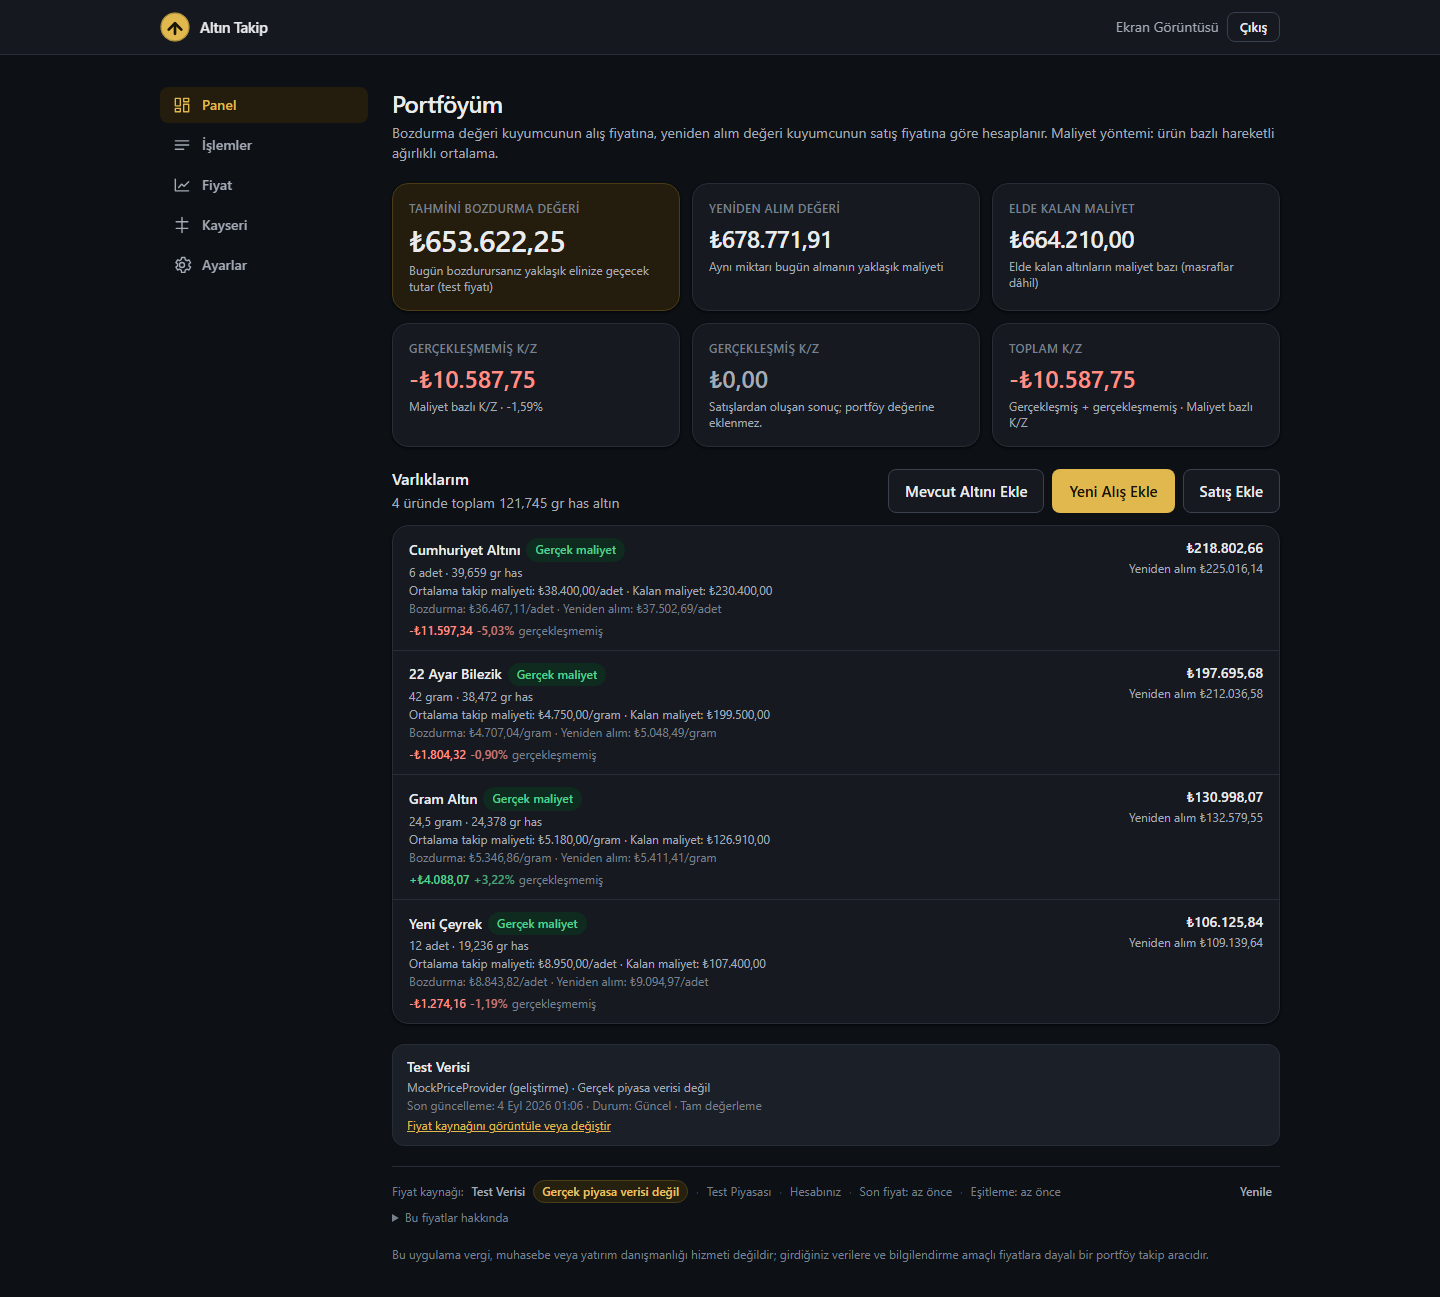
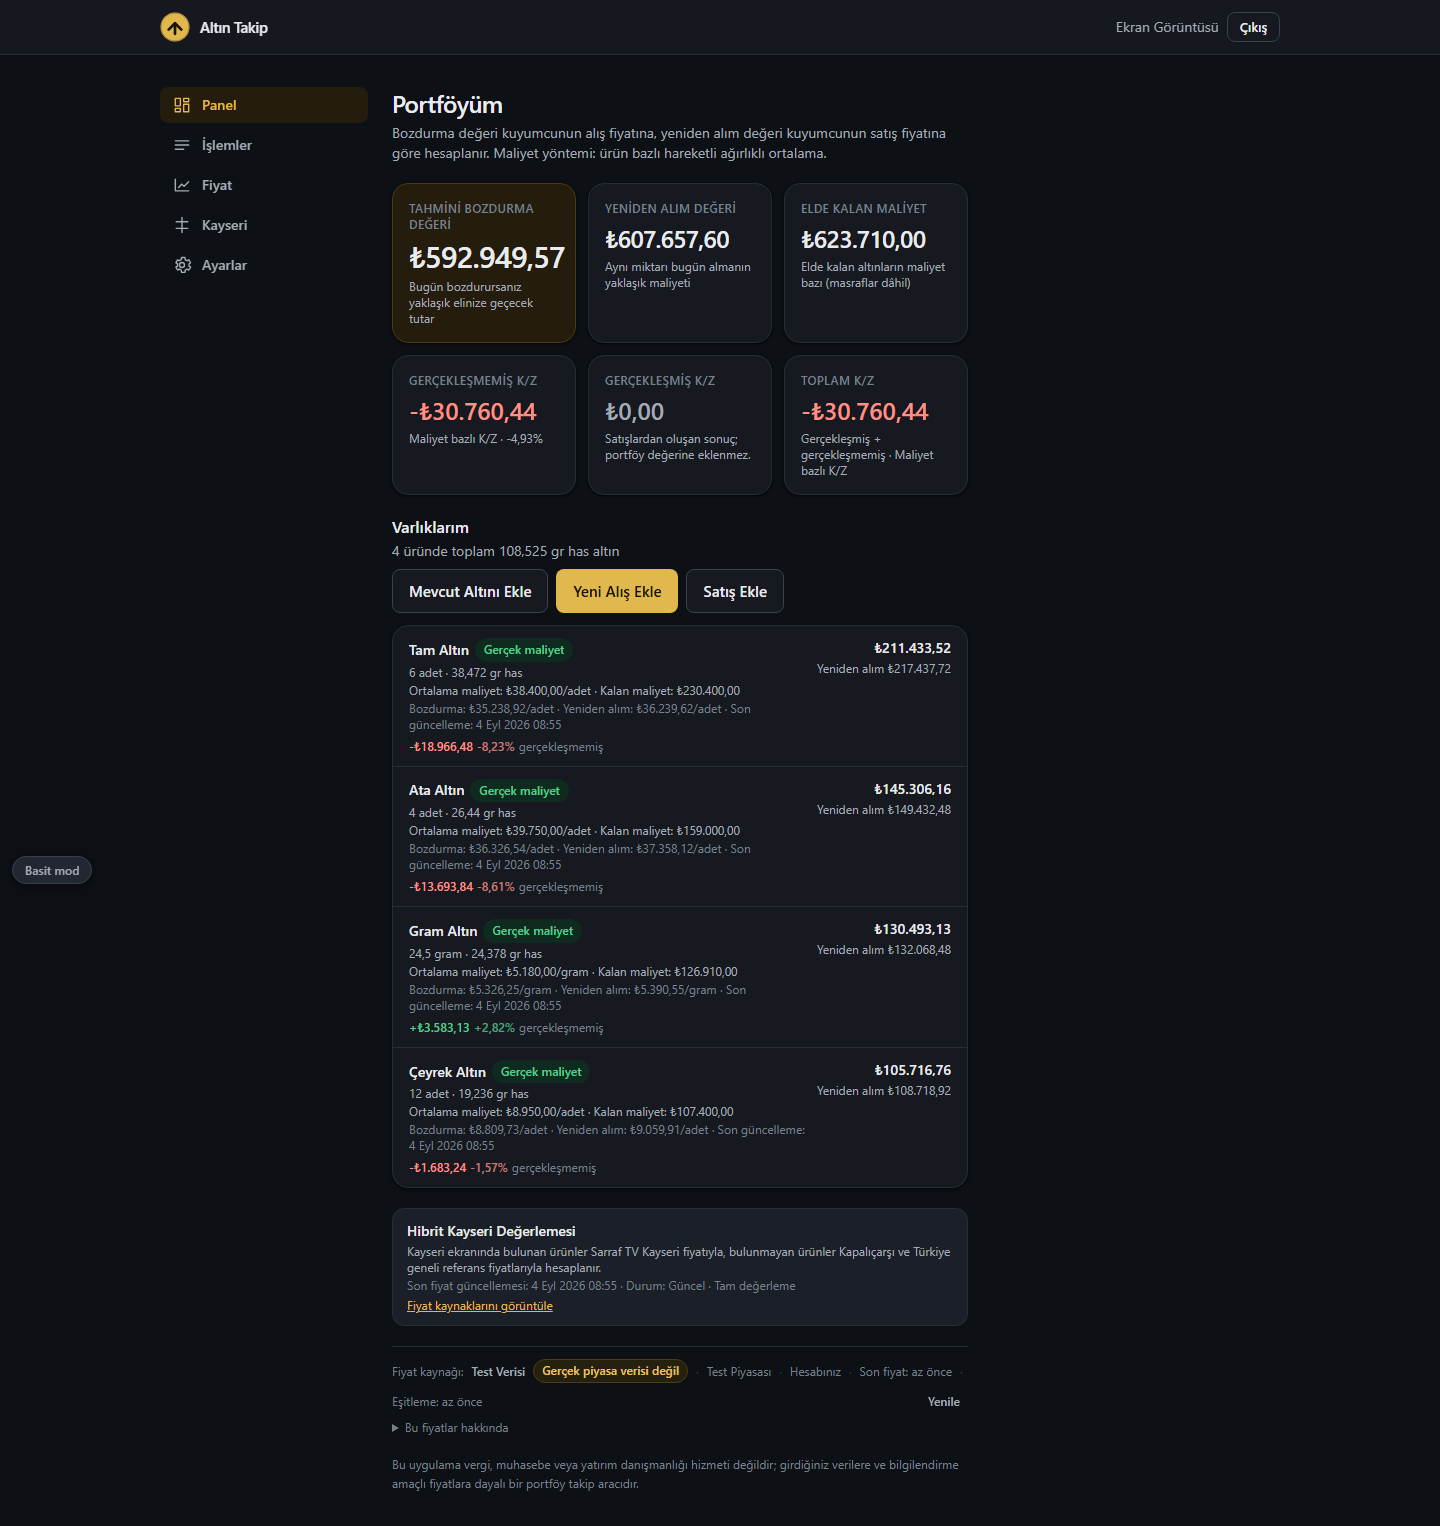
Belgeler olculen duruma cekildi; eskimis komut ve tablolar duzeltildi
ROADMAP 4256043'ten beri guncellenmemisti; arada 22 commit vardi. README ise
var olmayan bir komut adi tarif ediyordu.

- ROADMAP: hibrit Kayseri degerlemesi, ikinci/ucuncu kaynak, basit mod, sifreli
  yedek, bulut toplayici, izolasyon sondasi ve uretim dagitimi eklendi.
  "Kalan" listesinden yapilmis olan CEYREK/YARIM/TAM onayi cikarildi;
  dayaniklilik maddesi kendi olcumuyle celisiyordu, duzeltildi.
- PRICE_SOURCE_STATUS: hibrit tabloda Has Altin, 14 Ayar, Resat ve Besli
  eksikti. Bolum 2 hala "tek urun degerleniyor: Gremse" diyordu; 2026-09-03
  kosumunun kaydi BOZULMADAN, kosumdan sonra ne degistigi not olarak eklendi.
  Onayin dagitim basina yenilenmesi gerektigi acikca yazildi (surum 4 eski
  onaylari gecersiz kiliyor).
- README: "yalnizca Test Verisi calisir" artik dogru degildi. Komut tablosunda
  price:sarraf-feasibility yaziyordu, gercekte :headed/:headless/:strict var.
  test:db "0001->0016" diyordu, 21 migration var. Eksik komutlar eklendi;
  collect-once komutlari ayrildi (truncgil/anlik YAZMAZ, sarraf makine ucuna
  GONDERIR).
- sarraf-tv-screen-mapping: GROUPED_EXPLICIT aciklamasi "bu ekranda boyle bir
  alan bulunmadi" diyordu, oysa ayni dosyada ATA satirlari oyle eslenmis.
- docs/screenshots/desktop.png: E2E kosumunda yeniden uretildi.

Dogrulama: npm run verify temiz (696 test / 37 dosya, build, paket taramasi).
Playwright 305 gecti, 3 atlandi, 1 dustu; dusen test ERR_NO_BUFFER_SPACE ile
chunk indiremedigi icin kaldi, tek basina yeniden kosuldugunda gecti.

diff --git a/src/prices/providers/sarraf-tv-screen-mapping.ts b/src/prices/providers/sarraf-tv-screen-mapping.ts
@@ -31,7 +31,9 @@ export const SARRAF_TV_SCREEN_MAPPING_VERSION = "sarraf-tv-screen-observed-4";
  *                    yüklediği yanıtta AYRI ALAN ADLARIYLA (buying/sales)
  *                    kanıtlanmış. Değerlemeye girebilir.
  *  GROUPED_EXPLICIT  Kaynak, aynı fiyatın birden çok ürünü kapsadığını AÇIKÇA
- *                    söylüyor. (Bu ekranda böyle bir alan bulunmadı.)
+ *                    söylüyor. Bu ekranda ayrı bir alanla değil, başlığın
+ *                    kendisiyle beyan edilir ("ATA - REŞAT LİRA"); tablo
+ *                    aşağıda: SARRAF_TV_SCREEN_MAPPING_GROUPED.
  *  OPERATOR_VERIFIED Yönetici, ekran kanıtını görüp eşlemeyi açıkça onayladı.
  *  CONVENTION        Başlık yeni/eski ayrımını yazmıyor ("ÇEYREK"). Piyasa
  *                    teamülüdür, kanıt değildir. Onaysız değerlemeye GİRMEZ.

diff --git a/README.md b/README.md
@@ -126,7 +126,7 @@ değişkenlerin eksik olduğunu raporlar.
 | `npm run typecheck` | TypeScript tip denetimi |
 | `npm run test` | Birim ve güvenlik yüzeyi testleri (Vitest) |
 | `npm run test:e2e` | Tarayıcı duman ve güvenlik testleri (Playwright, 390/768/1440 px) |
-| `npm run test:db` | Veritabanı yetki sınırı, RLS ve muhasebe testleri: temiz DB'ye 0001→0016 uygular, 242 pgTAP testi koşar (Supabase CLI + Docker) |
+| `npm run test:db` | Veritabanı yetki sınırı, RLS ve muhasebe testleri: temiz DB'ye 0001→0021 uygular, pgTAP testlerini koşar (Supabase CLI + Docker) |
 | `npm run test:data-api` | Gerçek anon / authenticated JWT ile PostgREST üzerinden yazma yüzeyinin kapalı olduğunu doğrular (yerel Supabase) |
 | `npm run verify` | lint + typecheck + test + build + istemci paketi taraması |
 | `npm run package:source` | Temiz kaynak paketi (`dist/Altin-Takip-Source.zip` + SHA-256 + manifest) |
@@ -134,7 +134,13 @@ değişkenlerin eksik olduğunu raporlar.
 | `npm run admin:repair` | Eksik varsayılan portföy/tercih kayıtlarını idempotent biçimde tamamlar (yönetici onarımı) |
 | `npm run accounting:verify` | Defteri yeniden oynatır; türetilmiş pozisyonlar ve Postgres içi doğrulamayla karşılaştırır; tutarsızlıkta başarısız olur |
 | `npm run price:contract` | Sağlayıcı sözleşmesi testleri (fixture). Credential varsa canlı sağlık kontrolü ekler; yoksa eksik DEĞİŞKEN ADLARINI listeleyip NOT_RUN raporlar |
-| `npm run price:sarraf-feasibility` | Sarraf TV Kayseri ekranının normal tarayıcı oturumunda okunup okunamadığını ölçen DENEYSEL fizibilite aracı. Üretim yolunun parçası değildir; CAPTCHA aşmaz, sonucu OK/BLOCKED/UNAVAILABLE/NOT_RUN olarak dürüstçe raporlar |
+| `npm run price:sarraf-feasibility:headed` / `:headless` / `:strict` | Sarraf TV Kayseri ekranının normal tarayıcı oturumunda okunup okunamadığını ölçen DENEYSEL fizibilite aracı. Üretim yolunun parçası değildir; CAPTCHA aşmaz, sonucu OK/PARTIAL_OK/BLOCKED/UNAVAILABLE/NOT_RUN olarak dürüstçe raporlar |
+| `npm run price:truncgil:collect-once` / `price:anlik:collect-once` | Adapter'ı gerçek kaynağa karşı çalıştırır ve çıkan fiyatları yazdırır. **Veritabanına yazmaz**; sözleşme/alan adı/sayı biçimi denetimi içindir |
+| `npm run price:sarraf:collect-once` | Bulut toplayıcının tek seferlik koşumu: ekranı bir kez okur ve imzalı gözlemi HMAC'li makine ucuna **gönderir**. Supabase anahtarı taşımaz |
+| `npm run price:ingest:trigger` | Merkezî fiyat alımını elle tetikler (cron ucu) |
+| `npm run price:match-verify` | Canlı birebir eşleşme denetimi: ekran → toplayıcı → veritabanı → panel zincirinin dördü de aynı değeri gösteriyor mu? Geçici test kullanıcısı açar ve siler |
+| `npm run mappings:approve` | Kayseri ekran eşlemelerini yönetici onayıyla açar (`OPERATOR_VERIFIED`). Ekran gözlemi yoksa hiçbir şey onaylamaz; eşleme sürümü değişince yeniden koşulmalıdır |
+| `npm run probe:remote-isolation` | Canlı Vercel + uzak Supabase üzerinde çapraz kullanıcı erişiminin engellendiğini gerçek HTTPS oturumuyla doğrular; geçici kullanıcı açar ve siler |
 | `npm run price:smoke` | Yalnızca yerel Supabase: katalog eşitleme → alım → karantina → kaynak seçimi yolunu uçtan uca doğrular |
 | `npm run accounting:smoke` | Yalnızca yerel Supabase: gerçek RPC yolundan kabul örneklerini (1, 4, 8, 9, VOID/REPLACE, MARKET_BASELINE) koşar |
 | `npm run staging:doctor` / `staging:migrate` / `staging:smoke` / `staging:seed` / `staging:admin` / `staging:cleanup` / `test:staging` | Staging araçları — bkz. [docs/STAGING.md](docs/STAGING.md). Değerler yazdırılmaz; eksik yapılandırmada fail closed |
@@ -164,15 +170,22 @@ kullanıcı adını içeren parolalar reddedilir.
 
 ## Fiyat verisi
 
-Uygulama **çoklu fiyat kaynağını** destekler. Bu sürümde hiçbir gerçek sağlayıcı lisansı
-yoktur: yalnızca **Test Verisi** çalışır ve arayüzde "Gerçek piyasa verisi değil" etiketiyle
-görünür. Gerçek kaynaklar katalogda tanımlıdır ama `NOT_CONFIGURED` / `LICENSE_REQUIRED`
-durumundadır ve veri çekmez.
+Uygulama **çoklu fiyat kaynağını** destekler. Lisanslı ticari sağlayıcı sözleşmesi yoktur;
+`LICENSE_REQUIRED` kaynaklar veri çekmez ve veritabanı kısıtıyla kapalı durur. Özel pilotta
+üç kaynak `EXPERIMENTAL_PRIVATE` olarak çalışır ve **ürün başına sabit bir planla** kullanılır
+(hibrit Kayseri değerlemesi; hangi ürünün hangi kaynaktan geldiği
+[docs/PRICE_SOURCE_STATUS.md](docs/PRICE_SOURCE_STATUS.md) içindedir).
+
+**Test Verisi** yalnızca geliştirmede açılır ve arayüzde "Gerçek piyasa verisi değil"
+etiketiyle görünür. Pilot kaynakları bu etiketi taşımaz: verileri gerçektir, yalnızca
+lisanslı değildir — lisanssız olmakla uydurma olmak aynı şey değildir.
 
 | Kaynak | Piyasa | Durum |
 | --- | --- | --- |
 | Test Verisi (MARKET_BASELINE) | Test | Yalnızca geliştirme; üretimde kapalı |
 | Sarraf TV Kayseri (ekran gözlemi) | Kayseri | **Özel pilot** — `EXPERIMENTAL_PRIVATE`, lisanssız, izin listesiyle, sınırlı ürün |
+| Kapalıçarşı Önerilen (Anlık Altın) | Kapalıçarşı | **Özel pilot** — `EXPERIMENTAL_PRIVATE`, düz `fetch`; Kayseri ekranında iki yönlü satırı olmayan gram ürünleri |
+| Türkiye geneli (Trunçgil) | Genel Türkiye | **Özel pilot** — `EXPERIMENTAL_PRIVATE`, ücretsiz açık akış; yalnızca diğer iki kaynakta hiç bulunmayan ürünler |
 | Kayseri Yerel Piyasa (Sarraf Pro — KAYSARDER ekranı) | Kayseri | Yetkili API/XML sözleşmesi bekleniyor |
 | AltinAPI — bağımsız veri sağlayıcısı | Genel Türkiye | Anahtar ve lisans bekleniyor |
 | Hasfiyat — çoklu kaynak | Çoklu Kaynak | Anahtar ve lisans bekleniyor |
@@ -314,7 +327,9 @@ senkronize olmaz.
 | [docs/FINAL_DEPLOYMENT.md](docs/FINAL_DEPLOYMENT.md) | Özel pilotu sıfırdan ayağa kaldırma adımları |
 | [docs/ADMIN_QUICK_START.md](docs/ADMIN_QUICK_START.md) | Yönetici: hesap açma, MFA, izin listesi, eşleme onayı |
 | [docs/USER_QUICK_START.md](docs/USER_QUICK_START.md) | Kullanıcı: giriş, işlem girme, K/Z, fiyat uyarıları |
-| [docs/PRICE_SOURCE_STATUS.md](docs/PRICE_SOURCE_STATUS.md) | Fiyat kaynaklarının ölçülmüş durumu ve sınırları |
+| [docs/PRICE_SOURCE_STATUS.md](docs/PRICE_SOURCE_STATUS.md) | Fiyat kaynaklarının ölçülmüş durumu, hibrit plan ve sınırları |
+| [docs/ANLIK_ALTIN_DOGRULAMA.md](docs/ANLIK_ALTIN_DOGRULAMA.md) | Kapalıçarşı (Anlık Altın) kaynağının ölçümü ve Sarraf TV'den neden ayrı olduğu |
+| [docs/CLOUD_PRICE_COLLECTOR.md](docs/CLOUD_PRICE_COLLECTOR.md) | Bulut fiyat toplayıcısı: zamanlanmış koşum, secret yönetimi, hata durumları |
 | [docs/OPERATIONS_RUNBOOK.md](docs/OPERATIONS_RUNBOOK.md) | Belirti → neden → yapılacak: worker, karantina, geri alma |
 | [docs/ROADMAP.md](docs/ROADMAP.md) | Sonraki sprintler |
 | [CLAUDE.md](CLAUDE.md) | Bu depoda çalışan yapay zekâ ajanları için kurallar |

diff --git a/docs/ROADMAP.md b/docs/ROADMAP.md
@@ -239,14 +239,60 @@ Ekran normal tarayıcı oturumunda okunabildi; değerler ekranla birebir doğrul
   tek yazar kirası ve fencing jetonu, tek kullanımlık nonce.
 - Portföy bazlı izin listesi ve yönetici eşleme onayları (`0017`).
 - Ağ/DOM çift doğrulaması (açılışta yön, sonra DOM), imza değişiminde fail-closed.
+- Ham ekran satırlarının göründüğü `/kayseri-fiyatlari` sayfası (`0018`); tek yönlü
+  satırlar referans değer olarak, değerlemeye girmeden gösterilir.
+- ÇEYREK / YARIM / TAM eşlemeleri yöneticinin açık onayıyla açıldı
+  (`price_mapping_approve`, `OPERATOR_VERIFIED`); kanıt olarak o an ekranda okunan
+  değerler kullanıldı. `npm run mappings:approve`.
+- Eşleme sürümü 4: "ATA - REŞAT LİRA" / "ATA - REŞAT BEŞLİ" `GROUPED_EXPLICIT`.
+  **Sürüm değişimi eski onayları geçersiz kılar**; onay dağıtım başına yenilenir.
 
 **Kalan (pilot kararı gerektirir, kod işi değil)**
 
-- ÇEYREK / YARIM / TAM satırlarının yönetici onayı — teamül tahmini değerlemeye girmez.
 - Tek fiyatlı satırların (HAS, 22/14/8 AYAR) alış mı satış mı olduğunun teyidi.
-- Uzun süreli dayanıklılık ölçümü (son koşumda fiyat değişimi gözlenmedi).
+  Teyit gelene kadar bu satırlar `EXACT` kalır ve değerlemeye girmez.
+- Günler süren dayanıklılık ölçümü. Ekranın canlı tiklediği kanıtlandı (400 sn'de
+  5 güncelleme), ama uzun koşumda Chromium çökmesi ölçüldü ve `strict` mod bu
+  ortamda geçmiyor. Ayrıntı: [PRICE_SOURCE_STATUS.md](PRICE_SOURCE_STATUS.md) §4.
 - Yayın/lisans izni. Ekran gözlemi ticari yayın hakkı **vermez**; kalıcı çözüm
   lisanslı bir veri sözleşmesidir.
+
+## Hibrit Kayseri değerlemesi ve pilot dağıtımı (Sprint 3.2 devamı)
+
+Tek kaynak yerine **ürün başına sabit kaynak**: karar `src/prices/valuation-plan.ts`
+içinde tek yerdedir ve `tests/valuation-plan.test.ts` ile sabitlenmiştir. Bir ürünün
+alış ve satış fiyatı her zaman aynı kaydın iki alanıdır; planlanan kaynak veri
+vermezse ürün fiyatsız kalır, başka kaynağın fiyatı o ürüne yazılmaz.
+
+- **İkinci kaynak — Kapalıçarşı (`anlik-altin-kapalicarsi`).** Düz `fetch`, tarayıcı
+  yok. Ölçüm: anlikaltinfiyatlari.com'daki KAYSARDER bölümü yalnızca `tv.sarraf.pro`
+  iframe'idir (0 fiyat hücresi); geniş tablo ayrı bir kaynaktır ve Sarraf TV ile üç
+  gözlemde 24 hücrenin 0'ı eşleşti. Bu yüzden ayrı kaynak olarak etiketlendi.
+  [ANLIK_ALTIN_DOGRULAMA.md](ANLIK_ALTIN_DOGRULAMA.md)
+- **Üçüncü kaynak — Trunçgil (`truncgil-turkiye`).** Ücretsiz, anahtarsız açık akış;
+  yalnızca ilk iki kaynakta hiç bulunmayan ürünler için. Kaynağın kendi güncelleme
+  zamanı taşınır (`UPSTREAM`), uydurulmaz.
+- **Arayüz:** varsayılan listede altı ürün, diğerleri "Diğer varlıklar" altında;
+  basit/detaylı görünüm modu; panelde kompakt Kayseri canlı ekranı ve tam ekran
+  iframe. Katalogdan ürün silinmedi.
+- **Lisanssız ≠ uydurma.** "Gerçek piyasa verisi değil" uyarısı yalnızca test
+  sağlayıcısında görünür. Kayseri tezgâh fiyatı gerçektir, yalnızca lisanslı
+  değildir; lisans notu açıklama bölümünde durur.
+- **Şifreli yedek** (AES-256-GCM) günlük dışa aktarım ve geri yükleme provası
+  (`0019`–`0021`); prova geçti.
+- **Bulut fiyat toplayıcısı:** GitHub Actions ile ücretsiz zamanlanmış koşum.
+  [CLOUD_PRICE_COLLECTOR.md](CLOUD_PRICE_COLLECTOR.md)
+- **Uzak erişim izolasyon sondası:** `npm run probe:remote-isolation`.
+- **Özel pilot kapısı:** `private-pilot` ortamı açıkça beyan edilir; deneysel kaynak
+  genel listede görünmez, global varsayılan olamaz.
+- **Üretim dağıtımı yapıldı** (Vercel, `altin-takip-pilot`). Kurulum, doğrulama ve
+  geri alma adımları: [FINAL_DEPLOYMENT.md](FINAL_DEPLOYMENT.md). Alan adı hâlâ yok.
+
+**Doğrulama (2026-09-04):** `npm run verify` temiz — 696 birim testi (37 dosya), üretim
+derlemesi ve istemci paketi taraması ("31 dosya tarandı, secret izi yok"). Playwright:
+305 geçti, 3 atlandı, 1 düştü. Düşen test uygulama hatası değildi: chunk indirilemedi
+(`net::ERR_NO_BUFFER_SPACE` — Windows soket tükenmesi), hydration tamamlanmadı. Aynı test
+tek başına yeniden koşulduğunda 1,1 sn'de geçti.
 
 ## Sprint 4 — Ürün derinleştirme
 
@@ -260,8 +306,10 @@ Ekran normal tarayıcı oturumunda okunabildi; değerler ekranla birebir doğrul
 
 ## Sprint 5 — Operasyon
 
-- Production deployment ve alan adı (bu turda kapsam dışıydı).
-- İzleme, hata takibi ve yedekleme politikası.
+- Kendi alan adı ve HTTPS sertifikası. (Pilot dağıtımı Vercel alt alan adında
+  yayında; bkz. [FINAL_DEPLOYMENT.md](FINAL_DEPLOYMENT.md).)
+- İzleme ve hata takibi. (Şifreli günlük yedek ve geri yükleme provası yapıldı;
+  saklama süresi ve uzak kopya politikası kaldı.)
 - Veri saklama süresi politikasının otomatik uygulanması (KVKK sayfası ve silme talebi akışı
   Sprint 3'te eklendi).
 
